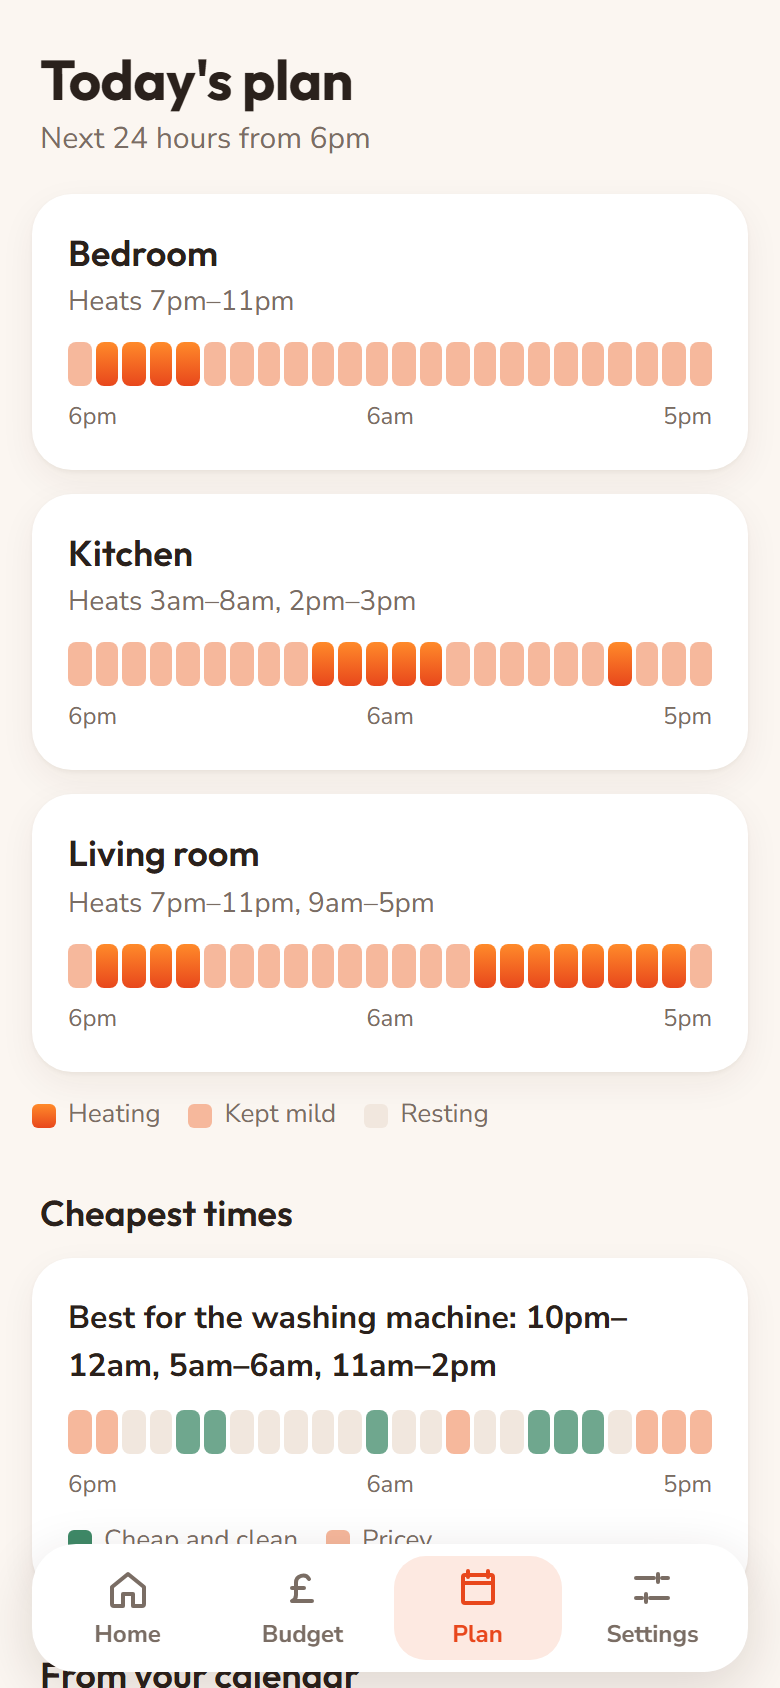
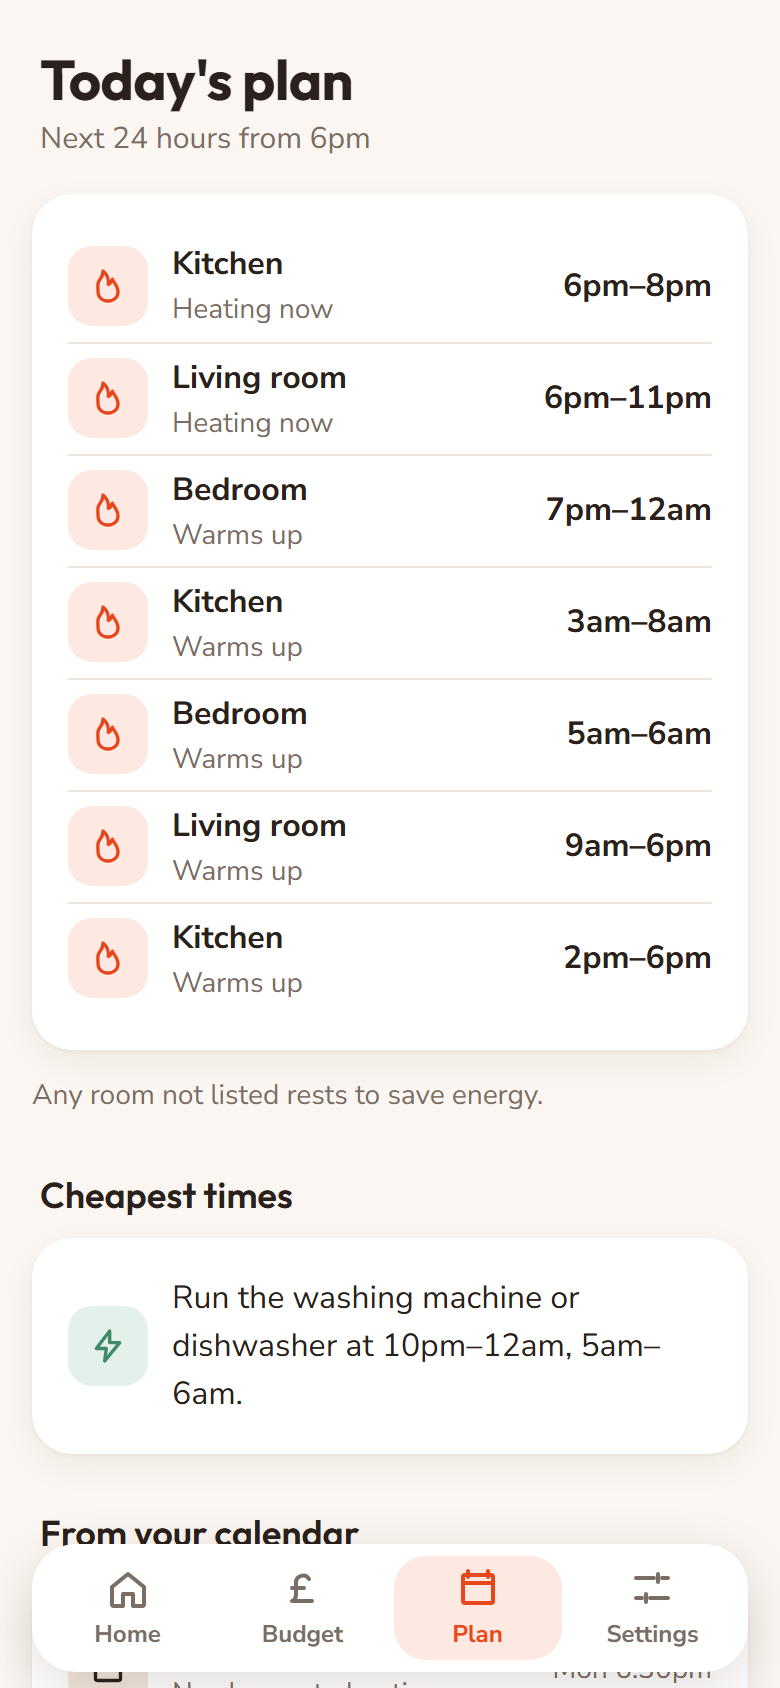
Simplify Plan: plain time-ordered heating list instead of strips

diff --git a/app/js/screens/schedule.js b/app/js/screens/schedule.js
@@ -1,7 +1,7 @@
 // Plan: when will each room heat today, when is energy cheap, and what's in the calendar?
 import { api } from "../api.js";
 import { roomName, time12 } from "../format.js";
-import { badge, card, empty, ghosts, h, heading, legend, note, strip } from "../ui.js";
+import { badge, card, empty, ghosts, h, heading, note } from "../ui.js";
 
 export const title = "Plan";
 
@@ -23,25 +23,26 @@ export function render({ state, loading, error }) {
     message: "Check the Heatwise server is running, then try again.", actionLabel: "Try again", onAction: api.load });
   const p = state.plan;
   const at = i => time12(p.hours[i] ?? `${String((Number(p.hours[p.hours.length - 1].slice(0, 2)) + 1) % 24).padStart(2, "0")}:00`);
-  const labels = [at(0), at(12), at(23)];
   const spans = rs => rs.map(([a, b]) => `${at(a)}–${at(b)}`).join(", ");
   const cheap = runs(p.price, "cheap");
 
   return [
     h("div", { class: "top" }, h("div", {}, h("h1", { class: "hello" }, "Today's plan"), h("div", { class: "date" }, `Next 24 hours from ${time12(state.clock.slice(4))}`))),
-    Object.entries(p.rooms).map(([name, cells]) => {
-      const heat = runs(cells, "heat");
-      return card(
-        h("div", { class: "room-name" }, roomName(name)),
-        h("div", { class: "note", style: "margin:2px 0 0" }, heat.length ? `Heats ${spans(heat)}` : "Resting all day"),
-        strip(cells.map(c => (c === "heat" ? "heat" : c === "eco" ? "eco" : "")), labels, `${roomName(name)} heating plan`));
-    }),
-    legend([["linear-gradient(180deg,var(--accent-2),var(--accent))", "Heating"], ["var(--accent-mid)", "Kept mild"], ["var(--track)", "Resting"]]),
+    // A plain, time-ordered list: when each room heats. No charts.
+    (() => {
+      const rows = Object.entries(p.rooms)
+        .flatMap(([name, cells]) => runs(cells, "heat").map(([a, b]) => ({ name, a, b })))
+        .sort((x, y) => x.a - y.a);
+      return card(rows.length
+        ? rows.map(r => h("div", { class: "event" }, badge("flame", "hot"),
+            h("div", { style: "flex:1" }, h("div", { class: "t" }, roomName(r.name)), h("div", { class: "note", style: "margin:0" }, r.a === 0 ? "Heating now" : "Warms up")),
+            h("div", { class: "t" }, `${at(r.a)}–${at(r.b)}`)))
+        : h("p", { style: "margin:0" }, "Nothing needs heating in the next 24 hours."));
+    })(),
+    note("Any room not listed rests to save energy."),
     heading("Cheapest times"),
-    card(
-      h("div", { style: "font-weight:700" }, cheap.length ? `Best for the washing machine: ${spans(cheap)}` : "No especially cheap times today"),
-      strip(p.price.map(l => (l === "cheap" ? "cheap" : l === "peak" ? "eco" : "")), labels, "Electricity prices over the next 24 hours"),
-      legend([["var(--calm)", "Cheap and clean"], ["var(--accent-mid)", "Pricey"]])),
+    card(h("div", { class: "event" }, badge("bolt", "calm"),
+      h("span", {}, cheap.length ? `Run the washing machine or dishwasher at ${spans(cheap.slice(0, 2))}.` : "No especially cheap times today."))),
     heading("From your calendar"),
     state.calendar.upcoming.length
       ? card(state.calendar.upcoming.map(e => {
